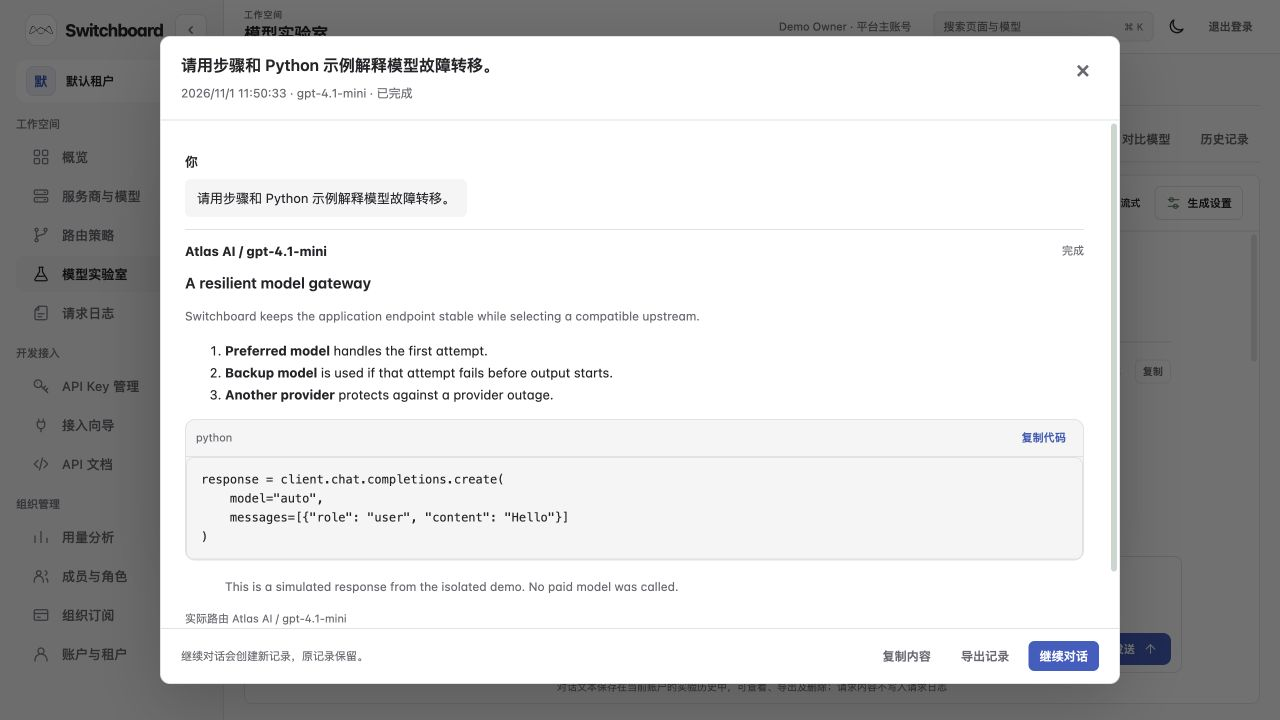
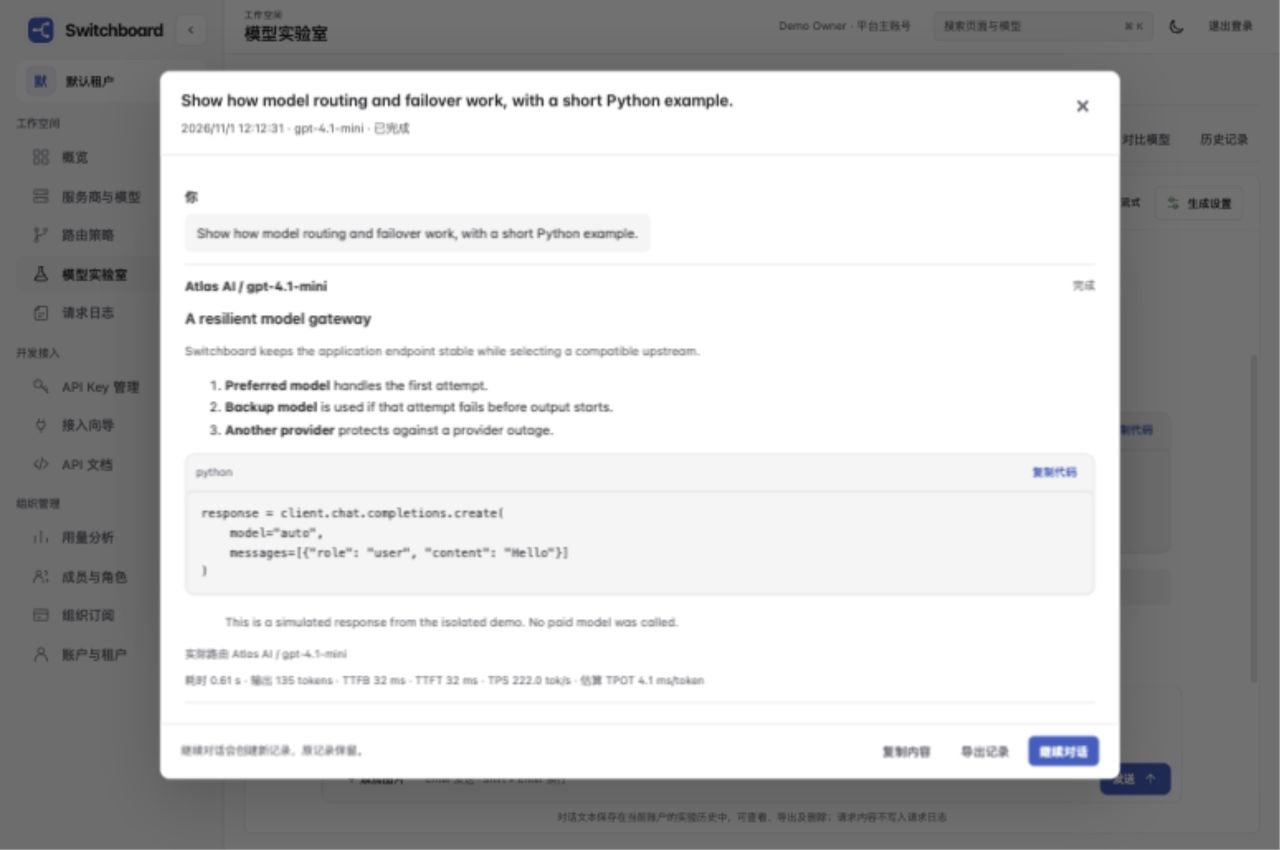
Replace company branding and stabilize light/dark layouts

diff --git a/public/interface.css b/public/interface.css
@@ -1,4 +1,6 @@
-/* Shared console tokens. Components inherit the same neutral light/dark palette. */
+/* Shared console tokens. Components inherit the same neutral light/dark palette.
+ * Theme-qualified rules only paint surfaces; geometry belongs to shared rules
+ * so theme specificity cannot override responsive or workspace layouts. */
 :root {
   color-scheme: light;
   --ui-canvas: #fafafa;
@@ -66,15 +68,11 @@ body, body.theme-dark {
   background: var(--ui-canvas);
   color: var(--ui-text);
 }
-body::before, body.theme-dark::before { content: none; }
+body::before { content: none; }
 
 /* Shell and navigation */
-.sidebar, body.theme-dark .sidebar {
-  background: var(--sidebar-surface);
-  border-color: var(--sidebar-line);
-  padding-left: 16px;
-  padding-right: 16px;
-}
+.sidebar { padding-left: 16px; padding-right: 16px; }
+.sidebar, body.theme-dark .sidebar { background: var(--sidebar-surface); border-color: var(--sidebar-line); }
 .sidebar .brand-mark {
   background: linear-gradient(145deg, #078aa2, #123e72);
   box-shadow: 0 7px 16px #05698135;
@@ -111,8 +109,7 @@ body::before, body.theme-dark::before { content: none; }
 .sidebar .nav-copy { display: flex; min-width: 0; flex-direction: column; align-items: flex-start; line-height: 1.2; }
 .sidebar .nav-children { margin-top: 2px; color: var(--ui-subtle); font-size: 9px; font-weight: 400; white-space: nowrap; }
 .sidebar .nav-item.selected .nav-children { color: var(--ui-accent-ink); opacity: .74; }
-.sidebar .nav-item.selected::before, body.theme-dark .sidebar .nav-item.selected::before,
-.sidebar .nav-indicator, .sidebar .nav-item.selected .nav-indicator { display: none !important; }
+.sidebar .nav-item.selected::before, .sidebar .nav-indicator, .sidebar .nav-item.selected .nav-indicator { display: none !important; }
 .sidebar .nav-group+.nav-group, body.theme-dark .sidebar .nav-group+.nav-group { border-color: var(--ui-border); }
 .sidebar { padding-top: 16px; scrollbar-width: none; }
 .sidebar::-webkit-scrollbar { display: none; }
@@ -139,7 +136,7 @@ body.sidebar-compact .sidebar .sidebar-toggle .icon-expand { display: block; }
 body.sidebar-compact { --sidebar-width: 72px; }
 
 @media (min-width: 721px) {
-  .sidebar-compact .sidebar, body.theme-dark.sidebar-compact .sidebar { padding-left: 16px; padding-right: 16px; }
+  .sidebar-compact .sidebar { padding-left: 16px; padding-right: 16px; }
   .sidebar-compact .sidebar-heading { padding-left: 4px; padding-right: 0; }
   .sidebar-compact .sidebar-toggle { width: 32px; height: 32px; margin-left: 0; }
   .sidebar-compact .sidebar nav { gap: 12px; }
@@ -187,7 +184,8 @@ body:not(.app-ready) #breadcrumb::after { content: '正在载入工作空间…'
 .heading h1, body.theme-dark .heading h1, h2, body.theme-dark h2 { color: var(--ui-text); }
 .eyebrow, body.theme-dark .eyebrow { color: var(--ui-accent); }
 .heading p, p, .muted, body.theme-dark p, body.theme-dark .muted { color: var(--ui-muted); }
-.page-tabs, body.theme-dark .page-tabs { border-color: var(--ui-border); margin-bottom: 18px; }
+.page-tabs { margin-bottom: 18px; }
+.page-tabs, body.theme-dark .page-tabs { border-color: var(--ui-border); }
 .page-tabs button, body.theme-dark .page-tabs button { color: var(--ui-muted); }
 .page-tabs button.selected, .page-tabs button[aria-current="page"], body.theme-dark .page-tabs button.selected { color: var(--ui-accent-ink); border-bottom-color: var(--ui-accent); }
 
@@ -253,7 +251,7 @@ dialog, body.theme-dark dialog { background: var(--ui-surface); border-color: va
   color: var(--ui-text);
 }
 #theme-toggle:hover { background: var(--ui-accent-soft); color: var(--ui-accent-ink); }
-#theme-toggle, body.theme-dark #theme-toggle { flex: 0 0 36px; padding: 0; line-height: 1; }
+#theme-toggle { flex: 0 0 36px; padding: 0; line-height: 1; }
 #theme-toggle svg { width: 19px; height: 19px; display: block; margin: auto; }
 .model-bulk { display: flex; flex-wrap: wrap; align-items: center; gap: 7px; margin: 10px 0; }
 .model-bulk[hidden] { display: none; }
@@ -368,13 +366,8 @@ dialog, body.theme-dark dialog { background: var(--ui-surface); border-color: va
 .routing-preview-excluded p { margin: 7px 0; overflow-wrap: anywhere; }
 
 /* Model lab conversation */
-.lab-session-summary, body.theme-dark .lab-session-summary {
-  max-width: none;
-  margin-bottom: 12px;
-  background: var(--ui-surface);
-  border-color: var(--ui-border);
-  box-shadow: var(--ui-shadow);
-}
+.lab-session-summary { max-width: none; margin-bottom: 12px; }
+.lab-session-summary, body.theme-dark .lab-session-summary { background: var(--ui-surface); border-color: var(--ui-border); box-shadow: var(--ui-shadow); }
 .lab-nav-row { display: flex; align-items: center; justify-content: space-between; gap: 12px; border-bottom: 1px solid var(--ui-border); margin-bottom: 14px; }
 .lab-nav-row .page-tabs { flex: 1; margin: 0; border-bottom: 0; }
 .lab-embedded-toolbar { flex: none; display: flex; align-items: center; gap: 8px; margin: 0; padding: 0; border: 0; }
@@ -402,9 +395,11 @@ dialog, body.theme-dark dialog { background: var(--ui-surface); border-color: va
 .lab-route-result>span { background: var(--ui-accent); color: var(--ui-canvas); }
 .lab-route-result em { background: var(--ui-surface); color: var(--ui-muted); }
 .lab-thought, .lab-thought>div, body.theme-dark .lab-thought, body.theme-dark .lab-thought>div { background: var(--ui-surface-soft); border-color: var(--ui-border); color: var(--ui-muted); }
-.lab-composer, body.theme-dark .lab-composer { margin: 0 16px; background: var(--ui-surface-soft); border-color: var(--ui-border); box-shadow: none; }
+.lab-composer { margin: 0 16px; }
+.lab-composer, body.theme-dark .lab-composer { background: var(--ui-surface-soft); border-color: var(--ui-border); box-shadow: none; }
 .lab-composer:focus-within, body.theme-dark .lab-composer:focus-within { border-color: var(--ui-accent); box-shadow: 0 0 0 3px #48bbd12c; }
-.lab-composer textarea, body.theme-dark .lab-composer textarea { background: transparent; border: 0; min-height: 68px; padding: 13px 15px; }
+.lab-composer textarea { border: 0; min-height: 68px; padding: 13px 15px; }
+.lab-composer textarea, body.theme-dark .lab-composer textarea { background: transparent; }
 .lab-compose-bottom { border-top: 1px solid var(--ui-border); }
 .lab-compose-bottom>span, body.theme-dark .lab-compose-bottom>span, .lab-privacy, body.theme-dark .lab-privacy { color: var(--ui-subtle); }
 .lab-settings { padding: 18px; }
@@ -599,13 +594,9 @@ dialog, body.theme-dark dialog { background: var(--ui-surface); border-color: va
 /* Provider identity and model selection: order is metadata, never a watermark. */
 .provider-card .card-top { min-width: 0; flex-wrap: wrap; }
 .provider-card .provider-title { flex: 1 1 115px; }
+.provider-card .card-top .provider-rank { position: static; flex: none; order: 1; align-self: center; padding: 4px 6px; border: 1px solid var(--ui-border); border-radius: 5px; font-size: 10px; line-height: 1; letter-spacing: .04em; font-weight: 700; }
 .provider-card .card-top .provider-rank,
-body.theme-dark .provider-card .card-top .provider-rank {
-  position: static; flex: none; order: 1; align-self: center;
-  padding: 4px 6px; border: 1px solid var(--ui-border); border-radius: 5px;
-  background: var(--ui-surface-soft); color: var(--ui-muted);
-  font-size: 10px; line-height: 1; letter-spacing: .04em; font-weight: 700;
-}
+body.theme-dark .provider-card .card-top .provider-rank { background: var(--ui-surface-soft); color: var(--ui-muted); }
 .provider-card .card-top .tag { order: 2; margin-left: 0; }
 .provider-card .provider-health small { min-width: 0; overflow: hidden; text-overflow: ellipsis; }
 #edit { width: min(700px, 94vw); }
@@ -751,7 +742,7 @@ body.theme-dark .media-task, body.theme-dark .media-transcript { background: var
   body>main>header>span:first-child { flex: 1 1 auto; min-width: 0; white-space: nowrap; overflow: hidden; text-overflow: ellipsis; }
   #breadcrumb { white-space: nowrap; }
   .top-actions { flex: 0 0 auto; gap: 5px; min-width: 0; }
-  #global-search, body.theme-dark #global-search { flex: 0 1 112px; width: 112px; min-width: 0; font-size: 11px; }
+  #global-search { flex: 0 1 112px; width: 112px; min-width: 0; font-size: 11px; }
   #logout { width: 32px; min-width: 32px; padding: 0; font-size: 0; }
   #logout::after { content: '↗'; font-size: 17px; }
   .lab-nav-row:has(.lab-model-count) { align-items: center; }
@@ -865,12 +856,11 @@ body.theme-dark .media-task, body.theme-dark .media-transcript { background: var
 .desktop-subscription-note summary { cursor: pointer; }
 
 /* Compact console controls: information first, decoration only for state. */
-body, body.theme-dark { font-size: 13px; }
-body .eyebrow, body.theme-dark .eyebrow, #content .eyebrow,
-body .sidebar .brand small, body .sidebar .nav-children,
-body .sidebar-footer, body>main>footer { display: none; }
-body .sidebar .nav-item, body.theme-dark .sidebar .nav-item { font-size: 13px; font-weight: 450; }
-body .sidebar .nav-item.selected, body.theme-dark .sidebar .nav-item.selected { background: var(--ui-surface-hover); color: var(--ui-text); font-weight: 600; }
+body { font-size: 13px; }
+body .eyebrow, #content .eyebrow, body .sidebar .brand small, body .sidebar .nav-children, body .sidebar-footer, body>main>footer { display: none; }
+body .sidebar .nav-item { font-size: 13px; font-weight: 450; }
+body .sidebar .nav-item.selected { font-weight: 600; }
+body .sidebar .nav-item.selected, body.theme-dark .sidebar .nav-item.selected { background: var(--ui-surface-hover); color: var(--ui-text); }
 body .sidebar .nav-item.selected .nav-icon { color: var(--ui-text); }
 body .sidebar .nav-label { font-size: 11px; letter-spacing: 0; font-weight: 500; }
 body .sidebar .workspace-copy small { display: none; }
@@ -891,8 +881,10 @@ body .panel, body .card, body .metric, body .filter-bar, body .record-filters { 
 body .panel:hover { box-shadow: none; }
 body .hero, body.theme-dark .hero { background: var(--ui-surface); color: var(--ui-text); border-color: var(--ui-border); }
 body .hero p { color: var(--ui-muted); }
-body .info, body.theme-dark .info { background: var(--ui-surface-soft); color: var(--ui-muted); border-left: 2px solid var(--ui-border); border-radius: 4px; }
-body pre, body.theme-dark pre, body .connect-snippet { background: var(--ui-surface-soft); color: var(--ui-text); border: 1px solid var(--ui-border); font-size: 12px; line-height: 1.65; }
+body .info { border-left: 2px solid var(--ui-border); border-radius: 4px; }
+body .info, body.theme-dark .info { background: var(--ui-surface-soft); color: var(--ui-muted); }
+body pre, body .connect-snippet { border: 1px solid var(--ui-border); font-size: 12px; line-height: 1.65; }
+body pre, body.theme-dark pre, body .connect-snippet { background: var(--ui-surface-soft); color: var(--ui-text); }
 body .empty, body.theme-dark .empty { background: transparent; }
 body dialog { border-radius: 10px; box-shadow: 0 16px 64px #0003; }
 body dialog::backdrop { background: #0005; backdrop-filter: none; }
@@ -904,15 +896,20 @@ body .metric small { font-size: 11px; color: var(--ui-muted); }
 body .dashboard-grid { grid-template-columns: minmax(0,1.6fr) minmax(240px,1fr); gap: var(--space-md,16px); }
 body .route-chain { display: grid; gap: 0; margin: 14px 0; overflow: visible; }
 body .route-chain>i { display: none; }
-body .route-node, body.theme-dark .route-node { min-width: 0; border: 0; border-bottom: 1px solid var(--ui-border); border-radius: 0; background: transparent; padding: 10px 0; }
+body .route-node { min-width: 0; border: 0; border-bottom: 1px solid var(--ui-border); border-radius: 0; padding: 10px 0; }
+body .route-node, body.theme-dark .route-node { background: transparent; }
 body .route-node.active, body.theme-dark .route-node.active { border-color: var(--ui-border); background: transparent; }
 body .route-node:last-child { border-bottom: 0; }
-body .route-node>span, body.theme-dark .route-node>span { border-radius: 5px; background: var(--ui-surface-soft); color: var(--ui-muted); }
+body .route-node>span { border-radius: 5px; }
+body .route-node>span, body.theme-dark .route-node>span { background: var(--ui-surface-soft); color: var(--ui-muted); }
 body .route-node.active>span { background: var(--ui-accent-soft); color: var(--ui-accent-ink); }
 body .route-node>div { flex: 1; }
-body .route-node b, body.theme-dark .route-node b { font-size: 12px; font-weight: 600; color: var(--ui-text); }
-body .route-node small, body.theme-dark .route-node small { color: var(--ui-muted); font-size: 12px; margin-top: 2px; }
-body .route-node em, body.theme-dark .route-node em { background: var(--ui-surface-soft); color: var(--ui-muted); font-size: 10px; }
+body .route-node b { font-size: 12px; font-weight: 600; }
+body .route-node b, body.theme-dark .route-node b { color: var(--ui-text); }
+body .route-node small { font-size: 12px; margin-top: 2px; }
+body .route-node small, body.theme-dark .route-node small { color: var(--ui-muted); }
+body .route-node em { font-size: 10px; }
+body .route-node em, body.theme-dark .route-node em { background: var(--ui-surface-soft); color: var(--ui-muted); }
 #dashboard-route-note { font-size: 11px; margin: 0; }
 .dashboard-shortcuts>h2 { margin: 0 0 12px; }
 .dashboard-shortcuts>button { display: flex; align-items: center; justify-content: space-between; gap: 12px; width: 100%; padding: 12px 0; border: 0; border-bottom: 1px solid var(--ui-border); border-radius: 0; background: transparent; text-align: left; }
@@ -930,10 +927,13 @@ body .route-question-title h2 { font-size: 15px; }
 body .route-question-title p, body .route-backup-choices small { font-size: 12px; }
 body .route-backup-choices>label { padding: 10px; border-radius: 6px; }
 body .route-workbench select:not([multiple]) { min-height: 36px; padding-top: 7px; padding-bottom: 7px; border-radius: 6px; }
-#global-search, body.theme-dark #global-search { display: flex; align-items: center; justify-content: space-between; gap: 20px; width: 210px; min-height: 30px; height: 30px; padding: 5px 9px; border-radius: 6px; color: var(--ui-muted); font-size: 11px; font-weight: 400; }
+#global-search { display: flex; align-items: center; justify-content: space-between; gap: 20px; width: 210px; min-height: 30px; height: 30px; padding: 5px 9px; border-radius: 6px; font-size: 11px; font-weight: 400; }
+#global-search, body.theme-dark #global-search { color: var(--ui-muted); }
 #global-search kbd { font: 10px system-ui; color: var(--ui-subtle); white-space: nowrap; }
-#theme-toggle, body.theme-dark #theme-toggle { flex-basis: 30px; width: 30px; height: 30px; min-height: 30px; border-radius: 6px; background: transparent; border-color: transparent; }
-#current-account, body.theme-dark #current-account { padding: 0; background: transparent; font-size: 11px; }
+#theme-toggle { flex-basis: 30px; width: 30px; height: 30px; min-height: 30px; border-radius: 6px; }
+#theme-toggle, body.theme-dark #theme-toggle { background: transparent; border-color: transparent; }
+#current-account { padding: 0; font-size: 11px; }
+#current-account, body.theme-dark #current-account { background: transparent; }
 #logout { padding: 5px 6px; font-size: 11px; min-height: 30px; }
 .command-menu { width: min(580px,calc(100vw - 32px)); max-height: min(600px,80dvh); padding: 0; margin: max(48px,12dvh) auto auto; overflow: hidden; }
 .command-menu[open] { display: flex; flex-direction: column; }
@@ -962,4 +962,4 @@ body .route-workbench select:not([multiple]) { min-height: 36px; padding-top: 7p
  body .sidebar .tenant-button, body.sidebar-compact .sidebar .tenant-button { min-height: 42px; height: 42px; }
 }
 @media (max-width:900px) { body .dashboard-grid { grid-template-columns: 1fr; } }
-@media (max-width:720px) { #global-search kbd { display: none; } #global-search,body.theme-dark #global-search { width: auto; } #logout { font-size: 0; padding: 0; flex: 0 0 32px; } .command-help { gap: 8px; } }
+@media (max-width:720px) { #global-search kbd { display: none; } #global-search { width: auto; } #logout { font-size: 0; padding: 0; flex: 0 0 32px; } .command-help { gap: 8px; } }

diff --git a/public/index.html b/public/index.html
@@ -1,6 +1,6 @@
-<!doctype html><html lang="zh-CN"><head><meta charset="UTF-8"><meta name="viewport" content="width=device-width,initial-scale=1"><title>Switchboard · 智能路由</title><link rel="icon" type="image/svg+xml" href="/mosi.svg"><link rel="stylesheet" href="/style.css?v=2.2.0"><link rel="stylesheet" href="/interface.css?v=2.2.0"><link rel="stylesheet" href="/workspaces.css?v=2.2.0"><link rel="stylesheet" href="/providers.css?v=2.2.0"></head><body><a class="skip-link" href="#content">跳到主要内容</a>
+<!doctype html><html lang="zh-CN"><head><meta charset="UTF-8"><meta name="viewport" content="width=device-width,initial-scale=1"><title>Switchboard · 智能路由</title><link rel="icon" type="image/svg+xml" href="/switchboard.svg"><link rel="stylesheet" href="/style.css?v=2.2.0"><link rel="stylesheet" href="/interface.css?v=2.2.0"><link rel="stylesheet" href="/workspaces.css?v=2.2.0"><link rel="stylesheet" href="/providers.css?v=2.2.0"></head><body><a class="skip-link" href="#content">跳到主要内容</a>
 <aside id="workspace-sidebar" class="sidebar" aria-label="工作空间侧边栏">
-  <div class="sidebar-heading"><a class="brand" href="/" aria-label="Switchboard 首页"><img class="brand-mark" src="/mosi.svg" alt="" width="32" height="32"><span class="brand-wordmark">Switchboard<small>AI ROUTING WORKSPACE</small></span></a><button type="button" id="sidebar-toggle" class="sidebar-toggle" aria-label="收起导航（⌘B）" aria-expanded="true" aria-controls="workspace-sidebar" title="收起导航（⌘B）" data-tooltip="收起导航"><svg class="nav-icon icon-collapse" viewBox="0 0 24 24" fill="none" stroke="currentColor" stroke-width="2" stroke-linecap="round" stroke-linejoin="round" aria-hidden="true"><path d="m14 7-5 5 5 5"/></svg><svg class="nav-icon icon-expand" viewBox="0 0 24 24" fill="none" stroke="currentColor" stroke-width="2" stroke-linecap="round" stroke-linejoin="round" aria-hidden="true"><path d="m10 7 5 5-5 5"/></svg><span class="sr-only">收起导航</span></button></div>
+  <div class="sidebar-heading"><a class="brand" href="/" aria-label="Switchboard 首页"><img class="brand-mark" src="/switchboard.svg" alt="" width="32" height="32"><span class="brand-wordmark">Switchboard<small>AI ROUTING WORKSPACE</small></span></a><button type="button" id="sidebar-toggle" class="sidebar-toggle" aria-label="收起导航（⌘B）" aria-expanded="true" aria-controls="workspace-sidebar" title="收起导航（⌘B）" data-tooltip="收起导航"><svg class="nav-icon icon-collapse" viewBox="0 0 24 24" fill="none" stroke="currentColor" stroke-width="2" stroke-linecap="round" stroke-linejoin="round" aria-hidden="true"><path d="m14 7-5 5 5 5"/></svg><svg class="nav-icon icon-expand" viewBox="0 0 24 24" fill="none" stroke="currentColor" stroke-width="2" stroke-linecap="round" stroke-linejoin="round" aria-hidden="true"><path d="m10 7 5 5-5 5"/></svg><span class="sr-only">收起导航</span></button></div>
   <div class="workspace-chip"><span class="workspace-avatar">S</span><span class="workspace-copy">独立工作空间<small>自主部署 · Private</small></span><span class="workspace-label">SELF</span></div>
   <nav aria-label="主导航"><div class="nav-group"><div class="nav-label">运营与模型</div><button type="button" class="nav-item selected" data-tab="overview" title="路由控制台" aria-label="路由控制台" aria-current="page"><svg class="nav-icon" viewBox="0 0 24 24" fill="none" stroke="currentColor" stroke-width="1.7" stroke-linecap="round" stroke-linejoin="round" aria-hidden="true"><rect x="3" y="3" width="7" height="7" rx="1.5"/><rect x="14" y="3" width="7" height="7" rx="1.5"/><rect x="3" y="14" width="7" height="7" rx="1.5"/><rect x="14" y="14" width="7" height="7" rx="1.5"/></svg><span class="nav-name">路由控制台</span><span class="nav-indicator" aria-hidden="true"></span></button><button type="button" class="nav-item " data-tab="providers" title="服务商管理" aria-label="服务商管理"><svg class="nav-icon" viewBox="0 0 24 24" fill="none" stroke="currentColor" stroke-width="1.7" stroke-linecap="round" stroke-linejoin="round" aria-hidden="true"><rect x="3" y="4" width="18" height="6" rx="2"/><rect x="3" y="14" width="18" height="6" rx="2"/><path d="M7 7h.01M7 17h.01M16 7h2M16 17h2"/></svg><span class="nav-name">服务商管理</span><span class="nav-indicator" aria-hidden="true"></span></button><button type="button" class="nav-item" data-tab="models" title="模型目录" aria-label="模型目录"><svg class="nav-icon" viewBox="0 0 24 24" fill="none" stroke="currentColor" stroke-width="1.7" aria-hidden="true"><rect x="3" y="3" width="7" height="7" rx="1"/><rect x="14" y="3" width="7" height="7" rx="1"/><rect x="3" y="14" width="7" height="7" rx="1"/><path d="M14 17h7m-3-3v7"/></svg><span class="nav-name">模型目录</span><span class="nav-indicator" aria-hidden="true"></span></button><button type="button" class="nav-item" data-tab="routing" title="路由策略" aria-label="路由策略"><svg class="nav-icon" viewBox="0 0 24 24" fill="none" stroke="currentColor" stroke-width="1.7" aria-hidden="true"><circle cx="6" cy="5" r="2"/><circle cx="6" cy="19" r="2"/><circle cx="18" cy="5" r="2"/><path d="M6 7v10m12-10c0 7-12 3-12 10"/></svg><span class="nav-name">路由策略</span><span class="nav-indicator" aria-hidden="true"></span></button><button type="button" class="nav-item " data-tab="playground" title="模型实验室" aria-label="模型实验室"><svg class="nav-icon" viewBox="0 0 24 24" fill="none" stroke="currentColor" stroke-width="1.7" stroke-linecap="round" stroke-linejoin="round" aria-hidden="true"><path d="M9 3h6M10 3v6l-6 10a1.3 1.3 0 0 0 1 2h14a1.3 1.3 0 0 0 1-2L14 9V3M8 15h8"/></svg><span class="nav-name">模型实验室</span><span class="nav-indicator" aria-hidden="true"></span></button><button type="button" class="nav-item" data-tab="media" title="媒体实验室" aria-label="媒体实验室"><svg class="nav-icon" viewBox="0 0 24 24" fill="none" stroke="currentColor" stroke-width="1.7" aria-hidden="true"><rect x="3" y="4" width="18" height="16" rx="2"/><path d="m10 8 6 4-6 4z"/></svg><span class="nav-name">媒体实验室</span><span class="nav-indicator"></span></button><button type="button" class="nav-item " data-tab="logs" title="请求日志" aria-label="请求日志"><svg class="nav-icon" viewBox="0 0 24 24" fill="none" stroke="currentColor" stroke-width="1.7" stroke-linecap="round" stroke-linejoin="round" aria-hidden="true"><path d="M9 3h9a2 2 0 0 1 2 2v14a2 2 0 0 1-2 2H6a2 2 0 0 1-2-2V8zM9 3v5H4M8 13h8M8 17h5"/></svg><span class="nav-name">请求日志</span><span class="nav-indicator" aria-hidden="true"></span></button></div><div class="nav-group"><div class="nav-label">开发者</div><button type="button" class="nav-item " data-tab="keys" title="API Key 管理" aria-label="API Key 管理"><svg class="nav-icon" viewBox="0 0 24 24" fill="none" stroke="currentColor" stroke-width="1.7" stroke-linecap="round" stroke-linejoin="round" aria-hidden="true"><circle cx="8" cy="9" r="5"/><path d="m12 12 9 9m-3-3 3-3m-6 0 3-3M7 8h.01"/></svg><span class="nav-name">API Key 管理</span><span class="nav-indicator" aria-hidden="true"></span></button><button type="button" class="nav-item " data-tab="connect" title="接入向导" aria-label="接入向导"><svg class="nav-icon" viewBox="0 0 24 24" fill="none" stroke="currentColor" stroke-width="1.7" stroke-linecap="round" stroke-linejoin="round" aria-hidden="true"><path d="M9 8V4M15 8V4"/><path d="M7 8h10v4a5 5 0 0 1-10 0V8z"/><path d="M12 17v4"/></svg><span class="nav-name">接入向导</span><span class="nav-indicator" aria-hidden="true"></span></button><button type="button" class="nav-item " data-tab="api" title="API 文档" aria-label="API 文档"><svg class="nav-icon" viewBox="0 0 24 24" fill="none" stroke="currentColor" stroke-width="1.7" stroke-linecap="round" stroke-linejoin="round" aria-hidden="true"><path d="m8 7-5 5 5 5m8-10 5 5-5 5M14 4l-4 16"/></svg><span class="nav-name">API 文档</span><span class="nav-indicator" aria-hidden="true"></span></button></div><div class="nav-group"><div class="nav-label">组织与治理</div><button type="button" class="nav-item" data-tab="analytics" title="用量分析" aria-label="用量分析"><svg class="nav-icon" viewBox="0 0 24 24" fill="none" stroke="currentColor" stroke-width="1.7" aria-hidden="true"><path d="M4 20V10m8 10V4m8 16v-7"/></svg><span class="nav-name">用量分析</span><span class="nav-indicator" aria-hidden="true"></span></button><button type="button" class="nav-item" data-tab="members" title="成员与角色" aria-label="成员与角色"><svg class="nav-icon" viewBox="0 0 24 24" fill="none" stroke="currentColor" stroke-width="1.7" aria-hidden="true"><circle cx="9" cy="8" r="3"/><path d="M3 21v-3a6 6 0 0 1 12 0v3m2-16a3 3 0 0 1 0 6m2 4a5 5 0 0 1 2 4v2"/></svg><span class="nav-name">成员与角色</span><span class="nav-indicator" aria-hidden="true"></span></button><button type="button" class="nav-item" data-tab="account" title="账户与租户" aria-label="账户与租户"><svg class="nav-icon" viewBox="0 0 24 24" fill="none" stroke="currentColor" stroke-width="1.7" aria-hidden="true"><circle cx="12" cy="8" r="4"/><path d="M4 22v-2a8 8 0 0 1 16 0v2"/></svg><span class="nav-name">账户与租户</span><span class="nav-indicator" aria-hidden="true"></span></button></div></nav>
   <div class="sidebar-footer"><div class="privacy-note"><svg class="nav-icon" viewBox="0 0 24 24" fill="none" stroke="currentColor" stroke-width="1.7" stroke-linecap="round" stroke-linejoin="round" aria-hidden="true"><path d="m12 3 8 3v6c0 5-8 9-8 9s-8-4-8-9V6zM8 12l3 3 5-6"/></svg><span>你的模型，你的数据<small>凭据由你掌控</small></span></div></div>

diff --git a/public/accounts.js b/public/accounts.js
@@ -56,11 +56,11 @@ export async function renderAccount({profile,esc,toast,onReady}){
  if(profile.platformAccess){
   let bindings=[];try{bindings=(await accountRequest('sso/feishu/bindings')).bindings;}catch(error){toast(error.message);}
   const box=document.createElement('section');box.className='panel section-space enterprise-bindings';
-  box.innerHTML=`<h2>飞书企业绑定</h2><p class="muted">仅平台主账号可绑定企业应用。启用自动加入后，飞书授权成功的企业成员可直接创建本租户普通账号，无需邀请码；已有平台账号仍须先连接飞书。App Secret 仅加密保存在服务端。</p><div class="enterprise-binding-list">${profile.tenants.map(tenant=>{const binding=bindings.find(item=>item.tenantId===tenant.id);return `<div class="enterprise-binding-row"><span><strong>${esc(tenant.name)}</strong><small>${binding?`${esc(binding.label)} · ${esc(binding.appId)} · ${binding.autoJoin?'员工可直接加入':'仅已连接账号'}`:'尚未绑定企业'}</small></span>${binding?`<button type="button" data-unbind-tenant="${esc(tenant.id)}" class="danger-text">解绑企业</button>`:''}</div>`;}).join('')}</div><form id="bind-enterprise" class="enterprise-binding-form"><label>目标租户<select name="tenantId" required>${profile.tenants.map(tenant=>`<option value="${esc(tenant.id)}">${esc(tenant.name)}</option>`).join('')}</select></label><label>企业名称<input name="label" required maxlength="40" placeholder="例如：模思智能"></label><label>飞书 App ID<input name="appId" required placeholder="cli_..."></label><label>飞书 App Secret<input name="appSecret" type="password" autocomplete="off" placeholder="首次绑定必填；修改原绑定时留空保留"></label><label>Tenant Key（可选）<input name="tenantKey" maxlength="128" placeholder="额外校验飞书企业身份"></label><label class="enterprise-auto-join"><input name="autoJoin" type="checkbox" checked> 允许本企业成员首次飞书登录时自动加入</label><div class="enterprise-binding-actions"><small class="field-help">还需在飞书应用后台登记回调地址：${esc(location.origin)}/api/account/sso/feishu/callback</small><button type="submit" class="primary">保存企业绑定</button></div></form>`;
+  box.innerHTML=`<h2>飞书企业绑定</h2><p class="muted">仅平台主账号可绑定企业应用。启用自动加入后，飞书授权成功的企业成员可直接创建本租户普通账号，无需邀请码；已有平台账号仍须先连接飞书。App Secret 仅加密保存在服务端。</p><div class="enterprise-binding-list">${profile.tenants.map(tenant=>{const binding=bindings.find(item=>item.tenantId===tenant.id);return `<div class="enterprise-binding-row"><span><strong>${esc(tenant.name)}</strong><small>${binding?`${esc(binding.label)} · ${esc(binding.appId)} · ${binding.autoJoin?'员工可直接加入':'仅已连接账号'}`:'尚未绑定企业'}</small></span>${binding?`<button type="button" data-unbind-tenant="${esc(tenant.id)}" class="danger-text">解绑企业</button>`:''}</div>`;}).join('')}</div><form id="bind-enterprise" class="enterprise-binding-form"><label>目标租户<select name="tenantId" required>${profile.tenants.map(tenant=>`<option value="${esc(tenant.id)}">${esc(tenant.name)}</option>`).join('')}</select></label><label>企业名称<input name="label" required maxlength="40" placeholder="例如：我的团队"></label><label>飞书 App ID<input name="appId" required placeholder="cli_..."></label><label>飞书 App Secret<input name="appSecret" type="password" autocomplete="off" placeholder="首次绑定必填；修改原绑定时留空保留"></label><label>Tenant Key（可选）<input name="tenantKey" maxlength="128" placeholder="额外校验飞书企业身份"></label><label class="enterprise-auto-join"><input name="autoJoin" type="checkbox" checked> 允许本企业成员首次飞书登录时自动加入</label><div class="enterprise-binding-actions"><small class="field-help">还需在飞书应用后台登记回调地址：${esc(location.origin)}/api/account/sso/feishu/callback</small><button type="submit" class="primary">保存企业绑定</button></div></form>`;
   root.append(box);const form=box.querySelector('#bind-enterprise'),select=form.elements.tenantId;
   const updateForm=()=>{const binding=bindings.find(item=>item.tenantId===select.value);form.elements.label.value=binding?.label||'';form.elements.appId.value=binding?.appId||'';form.elements.tenantKey.value=binding?.tenantKey||'';form.elements.autoJoin.checked=binding?.autoJoin!==false;form.elements.appSecret.value='';};select.onchange=updateForm;updateForm();
   form.onsubmit=async event=>{event.preventDefault();const button=form.querySelector('button[type=submit]');button.disabled=true;try{await accountRequest('sso/feishu/bindings',Object.fromEntries(new FormData(form)));accountStatus=await accountRequest('status');toast('飞书企业绑定已保存');await onReady(await accountRequest('me'));}catch(error){toast(error.message);}finally{button.disabled=false;}};
-  box.querySelectorAll('[data-unbind-tenant]').forEach(button=>button.onclick=()=>{const tenant=profile.tenants.find(item=>item.id===button.dataset.unbindTenant);confirmAction(box,`解绑“${tenant?.name||'此租户'}”的飞书企业？`,'解绑后该企业飞书入口将立即失效；已有的企业用户和平台数据不会删除。若解绑模思智能，请先确保邮箱密码可用。',async()=>{await accountRequest('sso/feishu/bindings/delete',{tenantId:button.dataset.unbindTenant});accountStatus=await accountRequest('status');toast('企业绑定已移除');await onReady(await accountRequest('me'));},toast);});
+  box.querySelectorAll('[data-unbind-tenant]').forEach(button=>button.onclick=()=>{const tenant=profile.tenants.find(item=>item.id===button.dataset.unbindTenant);confirmAction(box,`解绑“${tenant?.name||'此租户'}”的飞书企业？`,'解绑后该企业飞书入口将立即失效；已有的企业用户和平台数据不会删除。解绑前请确保邮箱密码可用。',async()=>{await accountRequest('sso/feishu/bindings/delete',{tenantId:button.dataset.unbindTenant});accountStatus=await accountRequest('status');toast('企业绑定已移除');await onReady(await accountRequest('me'));},toast);});
  }
  const owned=profile.platformAccess?profile.tenants.filter(t=>t.role==='owner'&&t.id!=='default'):[];
  if(owned.length){

diff --git a/public/workspaces.css b/public/workspaces.css
@@ -29,10 +29,12 @@
 .chat-workspace .lab-session-summary>div:first-child small { display: none; }
 .chat-workspace .lab-session-summary>div:last-child { margin-left: auto; }
 #content.chat-workspace .lab-messages { flex: 1 1 0; height: auto; min-height: 0; padding: 24px max(20px,calc((100% - 860px)/2)); overscroll-behavior: contain; }
-.chat-workspace .lab-message,body.theme-dark .chat-workspace .lab-message { max-width: 860px; margin: 0 auto 16px; padding: 0 0 16px; border-bottom: 1px solid var(--ui-border); background: transparent; }
+.chat-workspace .lab-message { max-width: 860px; margin: 0 auto 16px; padding: 0 0 16px; border-bottom: 1px solid var(--ui-border); }
+.chat-workspace .lab-message,body.theme-dark .chat-workspace .lab-message { background: transparent; }
 .chat-workspace .lab-message:last-child { margin-bottom: 0; border-bottom: 0; }
 .chat-workspace .lab-message-body { padding-left: 35px; }
-.chat-workspace .lab-message.user .lab-answer,body.theme-dark .chat-workspace .lab-message.user .lab-answer { width: fit-content; max-width: 100%; padding: 9px 13px; border: 1px solid var(--ui-border); border-radius: 10px; background: var(--ui-surface-soft); color: var(--ui-text); }
+.chat-workspace .lab-message.user .lab-answer { width: fit-content; max-width: 100%; padding: 9px 13px; border: 1px solid var(--ui-border); border-radius: 10px; }
+.chat-workspace .lab-message.user .lab-answer,body.theme-dark .chat-workspace .lab-message.user .lab-answer { background: var(--ui-surface-soft); color: var(--ui-text); }
 .chat-workspace .lab-message.assistant .lab-answer,body.theme-dark .chat-workspace .lab-message.assistant .lab-answer { color: var(--ui-text); }
 .chat-workspace .lab-answer { line-height: 1.7; }
 .chat-workspace .lab-message.assistant .lab-answer { white-space: normal; min-width: 0; }
@@ -278,7 +280,7 @@ body:has(#content.chat-workspace)>main>footer { display: none; }
  body>main>header { height: 54px; gap: 10px; padding-inline: max(var(--page-gutter),calc((100% - 1800px)/2 + var(--page-gutter))); }
  .topbar-location { display: flex; flex: 1 1 auto; flex-direction: column; justify-content: center; min-width: 0; gap: 2px; }
  #page-parent { color: var(--ui-subtle); font-size: 9px; font-weight: 650; letter-spacing: .08em; overflow: hidden; text-overflow: ellipsis; white-space: nowrap; }
- #breadcrumb,body.theme-dark #breadcrumb { margin: 0; overflow: hidden; text-overflow: ellipsis; white-space: nowrap; font-size: 17px; line-height: 1.25; letter-spacing: -.2px; font-weight: 600; }
+ #breadcrumb { margin: 0; overflow: hidden; text-overflow: ellipsis; white-space: nowrap; font-size: 17px; line-height: 1.25; letter-spacing: -.2px; font-weight: 600; }
  #content { padding-top: 12px; }
  #content>.heading,#content>.dashboard-heading { align-items: center; min-height: 40px; margin-bottom: 12px; padding-bottom: 9px; gap: 12px; border-bottom: 1px solid var(--ui-border); }
  #content>.heading>div:first-child,#content>.dashboard-heading>div:first-child { min-width: 0; }
@@ -294,7 +296,7 @@ body:has(#content.chat-workspace)>main>footer { display: none; }
 @media (max-width: 720px) {
  body>main>header { height: 44px; justify-content: flex-end; gap: 8px; padding-inline: var(--page-gutter); }
  .topbar-location { display: none; }
- #global-search,body.theme-dark #global-search { flex: 1 1 auto; width: auto; max-width: 240px; }
+ #global-search { flex: 1 1 auto; width: auto; max-width: 240px; }
  #content>.heading .eyebrow,#content>.dashboard-heading .eyebrow { display: none; }
  #content>.heading,#content>.dashboard-heading { margin-bottom: 12px; padding-bottom: 10px; }
 }

diff --git a/public/providers.css b/public/providers.css
@@ -1,14 +1,16 @@
 /* Providers and catalog: a working list, with secondary actions kept close. */
 .provider-grid.provider-list { display: grid; grid-template-columns: minmax(0,1fr); gap: 0; border: 1px solid var(--ui-border); border-radius: 10px; background: var(--ui-surface); }
 .provider-list:empty { display: none; }
-.provider-list .provider-row, body.theme-dark .provider-list .provider-row { display: grid; grid-template-columns: minmax(180px,1fr) minmax(150px,.8fr) minmax(200px,1.1fr) auto; align-items: center; gap: 18px; min-height: 108px; margin: 0; padding: 18px 20px; overflow: visible; border: 0; border-radius: 0; background: transparent; box-shadow: none; }
+.provider-list .provider-row { display: grid; grid-template-columns: minmax(180px,1fr) minmax(150px,.8fr) minmax(200px,1.1fr) auto; align-items: center; gap: 18px; min-height: 108px; margin: 0; padding: 18px 20px; overflow: visible; border: 0; border-radius: 0; }
+.provider-list .provider-row, body.theme-dark .provider-list .provider-row { background: transparent; box-shadow: none; }
 .provider-list .provider-row[hidden] { display: none; }
 .provider-list .provider-row+.provider-row { border-top: 1px solid var(--ui-border); }
 .provider-list .provider-row .card-top { display: flex; gap: 9px; flex-wrap: nowrap; }
 .provider-list .provider-row .provider-title { flex: 1; min-width: 0; }
 .provider-list .provider-row h3 { margin: 0; font-size: 14px; font-weight: 600; line-height: 21px; }
 .provider-list .provider-row .provider-title small { margin-top: 2px; color: var(--ui-muted); font-size: 11px; }
-.provider-list .provider-row .provider-rank, body.theme-dark .provider-list .provider-row .provider-rank { position: static; flex: 0 0 22px; width: 22px; height: 22px; display: grid; place-items: center; padding: 0; border: 1px solid var(--ui-border); border-radius: 5px; color: var(--ui-muted); background: transparent; font-size: 11px; font-weight: 500; letter-spacing: 0; }
+.provider-list .provider-row .provider-rank { position: static; flex: 0 0 22px; width: 22px; height: 22px; display: grid; place-items: center; padding: 0; border: 1px solid var(--ui-border); border-radius: 5px; font-size: 11px; font-weight: 500; letter-spacing: 0; }
+.provider-list .provider-row .provider-rank, body.theme-dark .provider-list .provider-row .provider-rank { color: var(--ui-muted); background: transparent; }
 .provider-list .provider-row .tag { order: 0; flex: 0 0 auto; padding: 2px 6px; font-size: 10px; line-height: 18px; }
 .provider-list .provider-row .provider-meta { display: flex; gap: 10px; margin: 7px 0 0 31px; padding: 0; border: 0; }
 .provider-list .provider-row .provider-meta span { padding: 0; background: transparent; color: var(--ui-muted); font-size: 11px; }

diff --git a/desktop/App.swift b/desktop/App.swift
@@ -125,7 +125,7 @@ final class AppDelegate: NSObject, NSApplicationDelegate, NSMenuItemValidation, 
     }
     private func makeWindow() {
         window = NSWindow(contentRect: NSRect(x: 0, y: 0, width: 1280, height: 840), styleMask: [.titled, .closable, .miniaturizable, .resizable], backing: .buffered, defer: false)
-        window.title = "Switchboard · 模思智能"; window.minSize = NSSize(width: 820, height: 560)
+        window.title = "Switchboard"; window.minSize = NSSize(width: 820, height: 560)
         window.isReleasedWhenClosed = false; window.setFrameAutosaveName("SwitchboardMain"); window.center()
         let root = NSView(); window.contentView = root
         let configuration = WKWebViewConfiguration()
@@ -302,7 +302,7 @@ final class AppDelegate: NSObject, NSApplicationDelegate, NSMenuItemValidation, 
     @objc private func zoomIn() { webView.pageZoom = min(1.8, webView.pageZoom + 0.1) }
     @objc private func zoomOut() { webView.pageZoom = max(0.7, webView.pageZoom - 0.1) }
     @objc private func zoomReset() { webView.pageZoom = 1 }
-    @objc private func about() { NSApp.orderFrontStandardAboutPanel(options: [.applicationName: "Switchboard · 模思智能", .applicationVersion: Bundle.main.object(forInfoDictionaryKey: "CFBundleShortVersionString") as? String ?? "", .credits: NSAttributedString(string: "本机 AI 路由工作空间\n内置运行环境 · 数据保存在本机")]) }
+    @objc private func about() { NSApp.orderFrontStandardAboutPanel(options: [.applicationName: "Switchboard", .applicationVersion: Bundle.main.object(forInfoDictionaryKey: "CFBundleShortVersionString") as? String ?? "", .credits: NSAttributedString(string: "本机 AI 路由工作空间\n内置运行环境 · 数据保存在本机")]) }
     @objc private func feishuHelp() {
         let address = (baseURL?.absoluteString ?? "http://127.0.0.1:3110") + "/api/account/sso/feishu/callback"
         let alert = NSAlert(); alert.messageText = "桌面版飞书登录"

diff --git a/desktop/Icon.swift b/desktop/Icon.swift
@@ -5,8 +5,7 @@ final class IconRenderer: NSObject, WKNavigationDelegate {
     func run() {
         webView = WKWebView(frame: NSRect(x: 0, y: 0, width: 1024, height: 1024)); webView.navigationDelegate = self
         let source = (try? String(contentsOfFile: CommandLine.arguments[1], encoding: .utf8)) ?? ""
-        let svg = source.replacingOccurrences(of: "#2C251E", with: "#69dceb", options: .caseInsensitive)
-        webView.loadHTMLString("<html><style>html,body{margin:0;width:1024px;height:1024px;background:transparent}.icon{position:absolute;inset:58px;border-radius:196px;background:linear-gradient(145deg,#132937,#081722);display:flex;align-items:center;justify-content:center;box-shadow:inset 0 0 0 3px #3b6f80}svg{width:660px;height:660px}</style><div class='icon'>\(svg)</div></html>", baseURL: nil)
+        webView.loadHTMLString("<html><style>html,body{margin:0;width:1024px;height:1024px;background:transparent}.icon{position:absolute;inset:58px;border-radius:196px;background:#3D5FC4;display:flex;align-items:center;justify-content:center}svg{width:908px;height:908px}</style><div class='icon'>\(source)</div></html>", baseURL: nil)
     }
     func webView(_ webView: WKWebView, didFinish navigation: WKNavigation!) {
         let config = WKSnapshotConfiguration(); config.rect = webView.bounds; config.snapshotWidth = 1024

diff --git a/desktop/windows/Program.cs b/desktop/windows/Program.cs
@@ -233,7 +233,7 @@ namespace Switchboard.Desktop
 
         internal WorkspaceForm()
         {
-            Text = "Switchboard · 模思智能";
+            Text = "Switchboard";
             Size = new Size(1280, 840);
             MinimumSize = new Size(820, 560);
             StartPosition = FormStartPosition.CenterScreen;

diff --git a/TENANCY.md b/TENANCY.md
@@ -22,7 +22,7 @@
 | 重置统计起点、清除本租户请求记录 | 是 | 否 | 否 | 否 |
 | 修改当前租户名称 | 是 | 是 | 否 | 否 |
 
-角色按租户分配。首次初始化的账户是唯一**平台主账号**：用该账户邮箱密码登录，或用已连接的默认租户「模思智能」飞书应用登录，才可查看和切换所有租户（包括历史上未加入的租户），并创建、删除未绑定 SSO 的非默认租户及绑定／解绑飞书企业。即使同一账户连接了其他企业飞书，从那些企业入口登录也只能访问对应租户。邮箱相同本身不会授予主账号权限，飞书身份必须匹配已连接的 App ID + Open ID。其他账户的会话只列出当前租户；历史多租户成员关系也不会跨租户暴露。升级前的旧会话默认保持租户级权限，重新登录后按登录来源授予权限。
+角色按租户分配。首次初始化的账户是唯一**平台主账号**：用该账户邮箱密码登录，或用已连接的默认租户绑定的飞书应用登录，才可查看和切换所有租户（包括历史上未加入的租户），并创建、删除未绑定 SSO 的非默认租户及绑定／解绑飞书企业。即使同一账户连接了其他企业飞书，从那些企业入口登录也只能访问对应租户。邮箱相同本身不会授予主账号权限，飞书身份必须匹配已连接的 App ID + Open ID。其他账户的会话只列出当前租户；历史多租户成员关系也不会跨租户暴露。升级前的旧会话默认保持租户级权限，重新登录后按登录来源授予权限。
 
 不可删除或降级最后一个所有者。移除成员和降级角色后，每次 HTTP 或 WebSocket 新请求重新鉴权；已开始的生成允许完成。租户更名只修改显示名称，保留 UUID、飞书映射、成员、密钥和调用记录，并记入租户操作审计。
 
@@ -71,7 +71,7 @@ SQLite 保存最近 90 天每次上游尝试的请求 ID、Key ID、调用者 ID
 
 以下内容从 README 迁入，供配置飞书 OAuth 时参考。
 
-首次初始化的账户是平台主账号：只有该账号的邮箱密码登录，或该账号已连接的**模思智能（默认租户）飞书身份**登录，才可查看、切换和管理全部租户。即使同一账号连接了其他企业飞书，从其他企业入口登录也只拥有该企业租户权限。只有平台主账号可为租户绑定／解绑飞书企业应用；其他同事只看到自己的租户，不能跨租户切换、创建或删除。本租户所有者／管理员可修改租户显示名称。默认租户和已绑定飞书应用的租户不可删除。升级后旧会话须重新登录，才会按新的登录来源取得权限。
+首次初始化的账户是平台主账号：只有该账号的邮箱密码登录，或该账号已连接的**默认租户的飞书身份**登录，才可查看、切换和管理全部租户。即使同一账号连接了其他企业飞书，从其他企业入口登录也只拥有该企业租户权限。只有平台主账号可为租户绑定／解绑飞书企业应用；其他同事只看到自己的租户，不能跨租户切换、创建或删除。本租户所有者／管理员可修改租户显示名称。默认租户和已绑定飞书应用的租户不可删除。升级后旧会话须重新登录，才会按新的登录来源取得权限。
 
 飞书登录为可选功能。一个飞书企业自建应用仅服务其所在企业；多个独立企业可各自提供一枚企业自建应用，映射到平台中各自独立的租户：
 
@@ -79,7 +79,7 @@ SQLite 保存最近 90 天每次上游尝试的请求 ID、Key ID、调用者 ID
 2. 第一家企业在本地 `.env` 填写 `FEISHU_APP_ID`、`FEISHU_APP_SECRET`、`FEISHU_REDIRECT_URI`，可用 `FEISHU_PROVIDER_LABEL` 设置名称。平台主账号可在「账户与租户 → 飞书企业绑定」给新租户添加应用，填写企业名称、App ID、App Secret 和可选 Tenant Key；配置在服务端加密保存，密钥不回显。已有 `FEISHU_ADDITIONAL_APPS_JSON` 配置仍可使用，平台内修改会覆盖对应租户的环境配置，解绑会停用该租户入口。各飞书应用都须登记**同一个** HTTPS 回调 URL。`App Secret` 不要提交到仓库或发送到聊天。对外 HTTPS 访问时设置 `COOKIE_SECURE=true`。
 3. 登录页选择所属企业。平台内绑定的飞书企业应用默认允许该应用可用范围内的成员首次飞书登录时自动创建本租户普通账号，无需邀请码，也不要求飞书邮箱权限；平台主账号可在「账户与租户 → 飞书企业绑定」关闭自动加入。已有邮箱密码账户仍须先登录并在对应租户点「连接飞书账户」，**不会仅凭飞书返回的邮箱自动认领现有账户**。系统按 **App ID + Open ID + 平台租户**识别身份，不能跨企业进入别的租户。Tenant Key 不是 App Secret；它是可选的额外企业校验，可从飞书授权返回的用户身份信息中取得，不必在应用「凭证与基础信息」页寻找。未配置 Tenant Key 时仍以企业自建应用本身的可用范围为准；请确保应用已发布且可用范围符合预期。
 
-**跨企业单入口迁移方案（尚未启用）：**若配置两家独立企业，目前各用一套企业自建应用。飞书 OAuth 发起时就要给出 App ID，因此网页无法在授权前可靠读取用户“当前所在企业”；把其中一家设为默认会让另一家员工进入错误授权流程。要实现真正的单个「使用飞书登录」入口，应申请一套可由两家企业分别安装/授权的跨企业应用，确认其网页授权与回调配置，然后在回调中验证飞书返回的 `tenant_key`，用服务端唯一映射表定位平台租户；未绑定的企业必须拒绝登录。迁移时保留旧入口至两家均安装并完成账户重新连接，不能用邮箱自动合并旧 App 的 Open ID。只有平台主账号能维护企业映射，模思主账号的跨租户权限仍须额外核验模思企业身份。**在该跨企业应用安装前，登录页保留企业选择；不把界面合并误称为自动识别。**
+**跨企业单入口迁移方案（尚未启用）：**若配置两家独立企业，目前各用一套企业自建应用。飞书 OAuth 发起时就要给出 App ID，因此网页无法在授权前可靠读取用户“当前所在企业”；把其中一家设为默认会让另一家员工进入错误授权流程。要实现真正的单个「使用飞书登录」入口，应申请一套可由两家企业分别安装/授权的跨企业应用，确认其网页授权与回调配置，然后在回调中验证飞书返回的 `tenant_key`，用服务端唯一映射表定位平台租户；未绑定的企业必须拒绝登录。迁移时保留旧入口至两家均安装并完成账户重新连接，不能用邮箱自动合并旧 App 的 Open ID。只有平台主账号能维护企业映射，主账号的跨租户权限仍须额外核验默认租户企业身份。**在该跨企业应用安装前，登录页保留企业选择；不把界面合并误称为自动识别。**
 
 仅通过环境变量配置而未在平台内绑定的旧应用仍遵循 `FEISHU_AUTO_JOIN`（默认关闭）；开启时须配置 `FEISHU_ALLOWED_TENANT_KEY`，但不再强制要求邮箱字段权限。平台内绑定的应用以「允许本企业成员首次飞书登录时自动加入」开关为准，默认开启；每个应用只映射一个平台租户，已绑定应用的租户不能直接删除。[飞书应用类型说明](https://open.feishu.cn/document/home/app-types-introduction/robots-web-applications-and-mini-programs)
 

diff --git a/CHANGELOG.md b/CHANGELOG.md
@@ -4,12 +4,16 @@
 
 ## [Unreleased]
 
+- 网页、macOS App 与安装包改用独立 Switchboard 路由标识；桌面显示名称和通用文档去除公司品牌，保留已有安装身份与用户数据。
+- 修复深色模式覆盖共享间距、实验室布局及服务商列表响应式规则的问题；明暗主题共用尺寸、排版与布局。
+- 移除双语 README 首屏概览大图，保留六个步骤的产品导览。
+- 品牌与主题验证：254 项自动化测试、类型检查与生产构建通过；12 个模块在桌面、平板和手机宽度下切换明暗主题，布局位置保持一致，导览图片使用独立演示数据重新截取。
 - 修复单个可用模型仍按最大尝试数拆分总超时的问题；预算只分配给剩余可尝试候选。
 - 延迟目标比较同服务商内各模型，至少三条近期成功样本后参与排名；排序复用已计算的健康数据。
 - 路由预览新增模型／服务商覆盖、仅单次尝试或仅密钥备用的限制提示，并展示排除原因与延迟样本依据。
 - 新对话历史保存原始模型选择，恢复自动路由时不再意外固定到上次命中模型；不可用目标有明确提示。
 - 网页与桌面返回共享构建指纹，账户页显示运行方式；新增只读 `npm run doctor` 比较实例版本。
-- 新增 `npm run demo` 隔离演示环境；双语 README 用七个实际页面展示完整流程，补充升级说明，移除未持续验证的竞品比较表。
+- 新增 `npm run demo` 隔离演示环境；双语 README 展示实际使用流程，补充升级说明，移除未持续验证的竞品比较表。
 - 本批验证：253 项自动化测试、类型检查与生产构建通过；隔离浏览器验收流式对话、历史恢复、路由预算提示、深色模式、侧栏对齐和 390px 布局。截图与 API 测试使用模拟上游，不代表真实服务商的性能或计费验证。
 
 - 新增 Windows x64 原生桌面壳与安装器：使用系统 WebView2，不捆绑 Chromium；按用户安装，数据独立保存，提供托盘、菜单、飞书系统浏览器回调和安全退出。手动 GitHub Actions 构建分享 ZIP，并执行隔离安装、页面渲染、退出与卸载验收；不自动创建 Release。

diff --git a/README.zh-CN.md b/README.zh-CN.md
@@ -9,8 +9,6 @@
 [![License: MIT](https://img.shields.io/badge/License-MIT-blue.svg)](LICENSE)
 [![GHCR](https://img.shields.io/badge/GHCR-amd64%20%7C%20arm64-2496ED?logo=docker&logoColor=white)](https://github.com/chensl139-ok/switchboard-ai-router/pkgs/container/switchboard-ai-router)
 
-![工作台：候选链、最终成功率和最近调用](docs/demo/overview.jpg)
-
 ## 看一遍完整流程
 
 以下为当前主分支的实际界面，使用隔离演示账号与模拟上游。**数字仅用于展示，不是性能基准**；点击图片可查看完整画面。
@@ -194,7 +192,7 @@ curl -i http://127.0.0.1:3100/v1/chat/completions \
 
 成员通过邀请加入租户；所有者、管理员、成员、只读角色具有不同权限，详见 [TENANCY.md](TENANCY.md)。忘记密码时，所有者／管理员可为成员签发一次性重置码，通过安全渠道交付；系统不会自动发邮件。唯一所有者失去登录能力时，部署管理员需停机后使用 `scripts/reset-admin-password.mjs` 本地恢复。
 
-首次初始化的账户是平台主账号：只有该账号的邮箱密码登录，或该账号已连接的**模思智能（默认租户）飞书身份**登录，才可查看、切换和管理全部租户。
+首次初始化的账户是平台主账号：只有该账号的邮箱密码登录，或该账号已连接的**默认租户的飞书身份**登录，才可查看、切换和管理全部租户。
 
 飞书登录为可选功能。一个飞书企业自建应用仅服务其所在企业；多个独立企业可各自提供一枚企业自建应用，映射到平台中各自独立的租户。配置步骤、安全注意事项与跨企业单入口迁移方案参见 [TENANCY.md](TENANCY.md) 与[飞书开放平台文档](https://open.feishu.cn/document/home/app-types-introduction/robots-web-applications-and-mini-programs)。如果没有自有域名，可用 [Tailscale Funnel](https://tailscale.com/docs/features/tailscale-funnel) 把本机控制台以固定 HTTPS 地址开放给同事；注意这会把登录页公开到互联网，应保持强密码并严格管理飞书应用可用范围。
 

diff --git a/docs/demo/README.md b/docs/demo/README.md
@@ -1,6 +1,6 @@
 # 可复现的产品导览
 
-中英文 README 共用此目录的 7 张实际浏览器截图，覆盖概览、服务商、路由、对话、历史详情、接入和深色用量分析。截图日期：2026-11-01。使用虚构账号、虚构服务商和模拟上游，不含真实租户数据；性能数字不可作为基准。
+中英文 README 共用此目录的 6 张步骤截图，覆盖服务商、路由、对话、历史详情、接入和深色用量分析，不再放置占据首屏的概览大图。截图日期：2026-11-01。使用虚构账号、虚构服务商和模拟上游，不含真实租户数据；性能数字不可作为基准。
 
 ```sh
 npm ci
